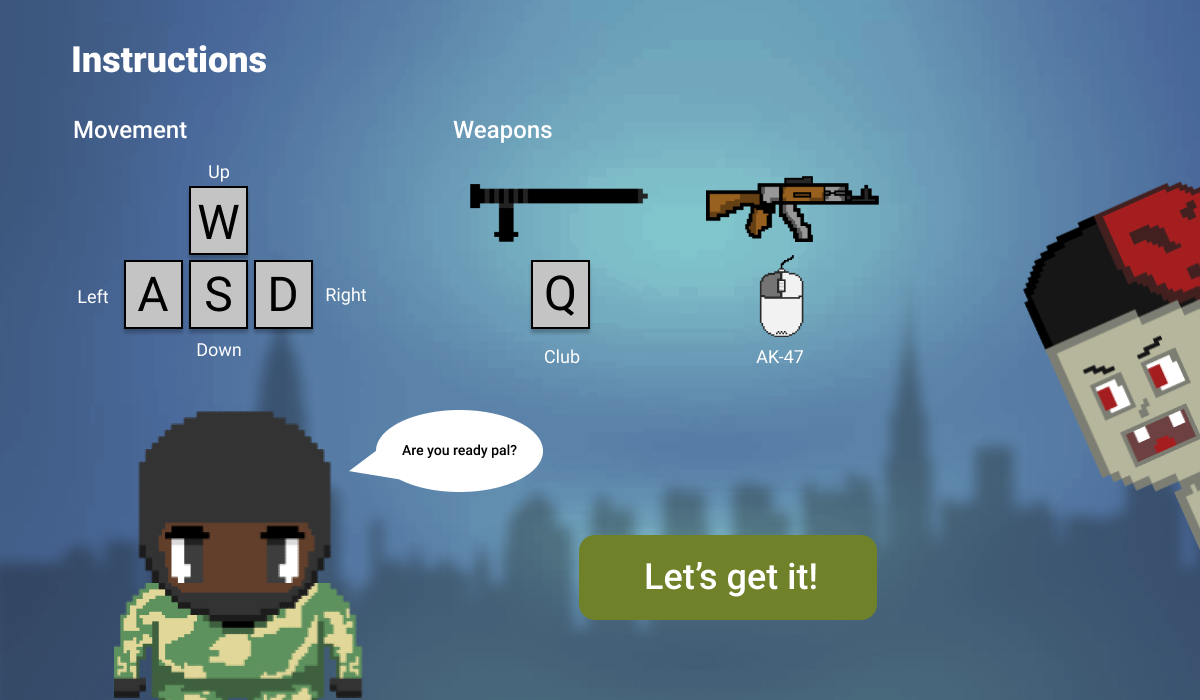
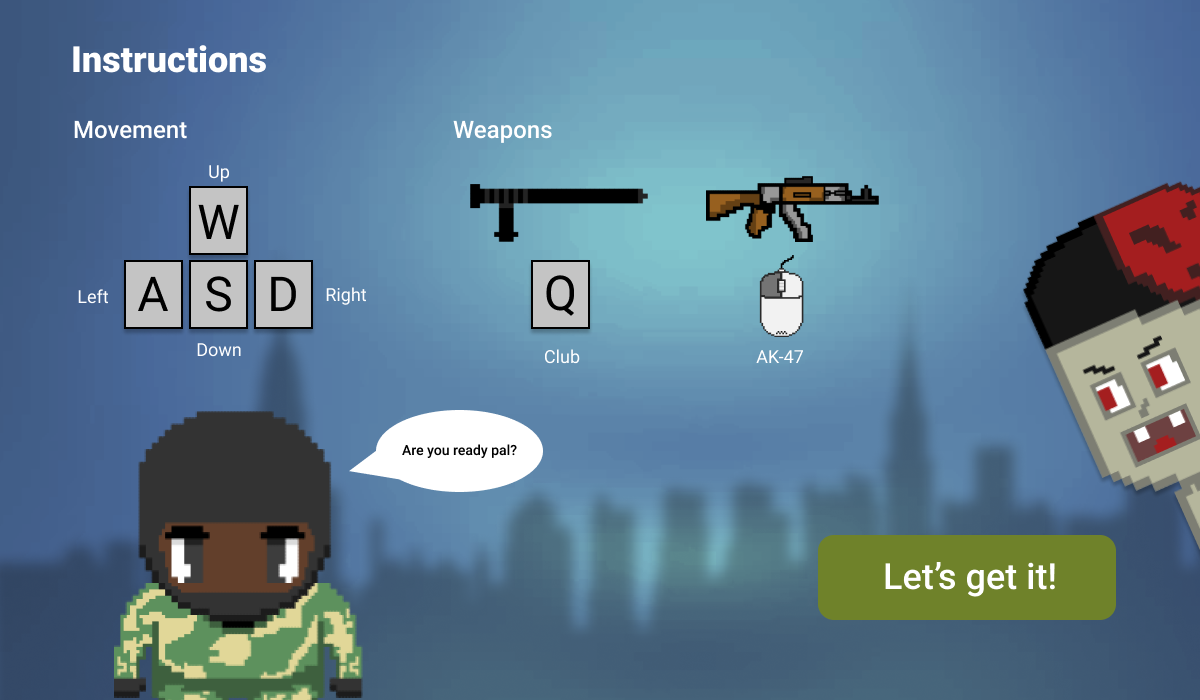
Reemplazo de images, acomodo boton de instrucciones y area sensible primer mapa

Changed region(s): [[0.4625, 0.75, 0.9558, 0.9]]

diff --git a/Map.js b/Map.js
@@ -48,7 +48,7 @@ class Map {
                     [1, 1, 1, 1, 0, 0, 1, 1, 0, 0, 0, 0, 0, 0, 1, 1, 0, 0, 1, 0, 0, 1, 1, 1],
                     [1, 1, 1, 1, 1, 0, 0, 0, 0, 0, 0, 0, 0, 0, 0, 0, 0, 0, 0, 0, 1, 1, 1, 1],
                     [1, 1, 1, 1, 1, 1, 1, 1, 1, 1, 1, 2, 1, 1, 1, 1, 1, 1, 1, 1, 1, 1, 1, 1],
-                    [1, 1, 1, 1, 1, 1, 1, 1, 1, 1, 1, 2, 1, 1, 1, 1, 1, 1, 1, 1, 1, 1, 1, 1],
+                    [1, 1, 1, 1, 1, 1, 1, 1, 1, 1, 1, 1, 1, 1, 1, 1, 1, 1, 1, 1, 1, 1, 1, 1],
                     
                 ];
                 break;

diff --git a/sketch.js b/sketch.js
@@ -456,7 +456,7 @@ function mousePressed() {
     }
   } 
   if (screen === 1) {
-    if (579 < mouseX && mouseX < 877 && 535 < mouseY && mouseY < 620) {
+    if (818 < mouseX && mouseX < 1116 && 535 < mouseY && mouseY < 620) {
       screen = 2;
     }
   }
